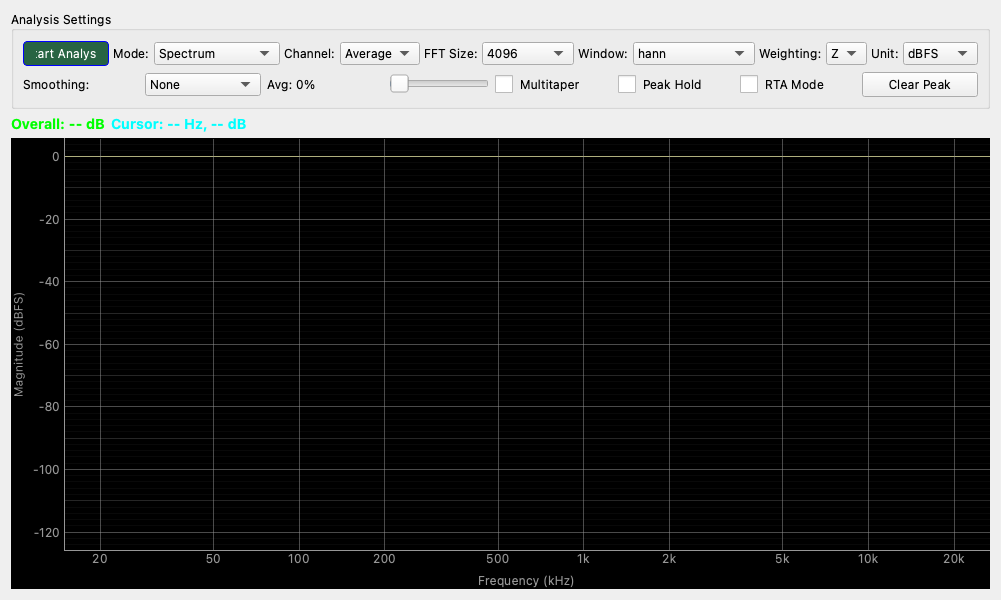
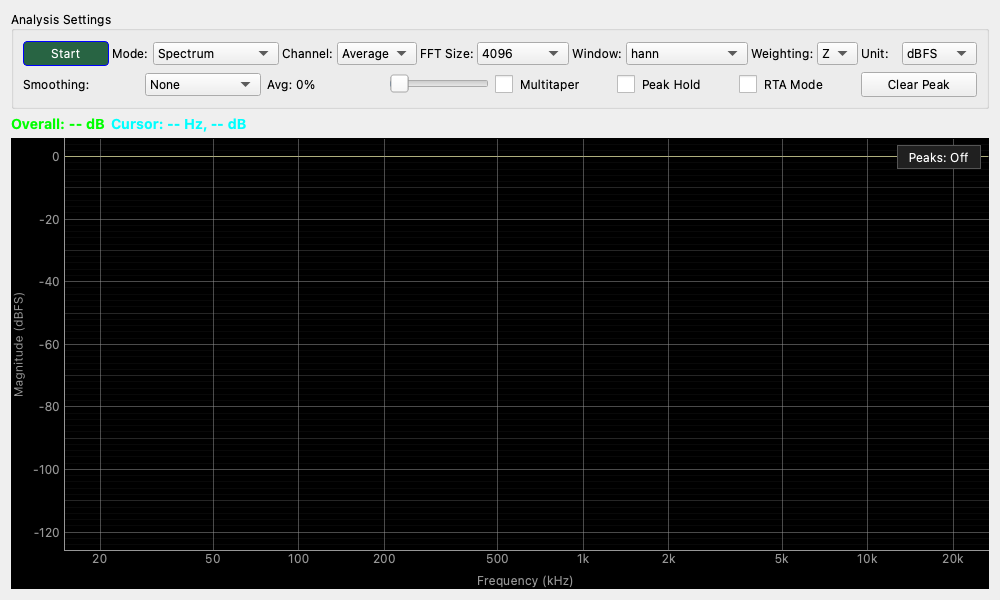
Release v0.9.1 as the final Python edition

diff --git a/misc/extract_changelog.py b/misc/extract_changelog.py
@@ -27,23 +27,16 @@ def extract_changelog(version, changelog_path="CHANGELOG.md"):
         print(f"Error reading {changelog_path}: {e}", file=sys.stderr)
         return None
 
-    # prepare candidate version forms to try (with/without leading 'v')
-    candidates = []
+    # Try both tag-style and plain versions without falling back for normal headers.
     v_stripped = original_version.lstrip("vV")
-    candidates.append(v_stripped)
-    # if user gave version without v, also try with v
-    if not original_version.lower().startswith("v"):
-        candidates.append("v" + v_stripped)
-    # if user gave version with v, also try without
-    if original_version.lower().startswith("v") and v_stripped not in candidates:
-        candidates.append(v_stripped)
+    candidates = list(dict.fromkeys([original_version, v_stripped, "v" + v_stripped]))
 
     # Build a flexible regex that allows:
     #  - optional brackets [ ... ] around version
     #  - optional whitespace between ## and version
-    #  - optional 'v' prefix (we already include candidates, but keep pattern tolerant)
+    #  - versions with or without a 'v' prefix through the candidates above
     #  - consume header line (which may include date) then capture until next "## " or EOF
-    pattern_template = r"^##\s*\[?\s*{ver}\s*\]?.*?\n(.*?)(?=^##\s|\Z)"
+    pattern_template = r"^##[ \t]*\[?[ \t]*{ver}(?![\w.])[ \t]*\]?[^\n]*\n(.*?)(?=^##[ \t]|\Z)"
 
     for cand in candidates:
         pat = pattern_template.format(ver=re.escape(cand))
@@ -54,7 +47,8 @@ def extract_changelog(version, changelog_path="CHANGELOG.md"):
 
     # as a last resort, try a looser search: header that contains the version anywhere on the header line
     loose_pattern = re.compile(
-        r"^##.*" + re.escape(v_stripped) + r".*?\n(.*?)(?=^##\s|\Z)", re.MULTILINE | re.DOTALL | re.IGNORECASE
+        r"^##[^\n]*(?<![\w.])v?" + re.escape(v_stripped) + r"(?![\w.])[^\n]*\n(.*?)(?=^##[ \t]|\Z)",
+        re.MULTILINE | re.DOTALL | re.IGNORECASE,
     )
     loose_match = loose_pattern.search(content)
     if loose_match:

diff --git a/tests/core/test_changelog_extraction.py b/tests/core/test_changelog_extraction.py
@@ -1,0 +1,27 @@
+import pytest
+
+from misc.extract_changelog import extract_changelog
+
+
+@pytest.mark.parametrize("version", ["v0.9.1", "0.9.1"])
+@pytest.mark.parametrize("heading", ["[v0.9.1] - 2026-10-04", "v0.9.1", "[0.9.1]", "0.9.1 - 2026-10-04"])
+def test_release_notes_preserve_final_release_notice(tmp_path, version, heading):
+    notice = "### Final Python Release\n\n* v0.9.1 is the final Python release.\n\n### Added\n\n* New layout."
+    changelog = tmp_path / "CHANGELOG.md"
+    changelog.write_text(f"# Changelog\n\n## {heading}\n\n{notice}\n\n## [v0.9.0]\n\n* Previous release.\n")
+
+    assert extract_changelog(version, changelog) == notice
+
+
+def test_release_notes_fallback_only_matches_heading_lines(tmp_path):
+    changelog = tmp_path / "CHANGELOG.md"
+    changelog.write_text("## Release v0.9.1 (final)\n\n* v0.9.1 is the final Python release.\n\n## v0.9.0\n\n* Old.\n")
+
+    assert extract_changelog("v0.9.1", changelog) == "* v0.9.1 is the final Python release."
+
+
+def test_release_notes_do_not_match_longer_version(tmp_path):
+    changelog = tmp_path / "CHANGELOG.md"
+    changelog.write_text("## [v0.9.10]\n\n* Different release.\n")
+
+    assert extract_changelog("v0.9.1", changelog) is None

diff --git a/src/core/version.py b/src/core/version.py
@@ -1,1 +1,1 @@
-__version__ = "0.9.0"
+__version__ = "0.9.1"

diff --git a/CHANGELOG.md b/CHANGELOG.md
@@ -1,5 +1,46 @@
 # Changelog
 
+## [v0.9.1] - 2026-10-04
+
+### Final Python Release
+
+* v0.9.1 is the final release of the Python/PyQt6 edition of MeasureLab. Development of this edition ends with this release.
+
+### Added
+
+* **Measurement Console**:
+    * Added a five-pane layout with two instruments above and three below.
+* **FFT Optimization**:
+    * Added optimization coverage indicators for standard, medium, and huge FFT sizes, including measured and estimated plans for both processing precisions.
+
+### Changed
+
+* **Startup and Navigation**:
+    * Displayed the splash screen earlier, prepared common FFT plans and up to four recent or basic modules during startup, and deferred the remaining pages until needed.
+    * Standardized the initial window size and improved lazy page loading and status refresh responsiveness.
+* **GUI Theme**:
+    * Refined measurement controls, menus, group boxes, and window styling across light, dark, and system themes.
+* **Documentation and Maintenance**:
+    * Documented the final Python release, refreshed affected widget screenshots, and strengthened lint, typing, and GUI regression checks.
+
+### Fixed
+
+* **GUI Shutdown**:
+    * Stopped module timers and background work during widget cleanup and canceled deferred page loading when the main window closes.
+* **Settings**:
+    * Refreshed calibration values when returning to Settings and used active double-precision FFT plans during optimization.
+* **Spectrum Analyzer**:
+    * Kept translated controls within the widget size limit while preserving accessible start/stop descriptions.
+* **Goniometer**:
+    * Kept the plot background and direction labels consistent across themes.
+* **Release Notes**:
+    * Preserved the complete changelog section when the version number is repeated in its body.
+
+### Removed
+
+* **Plot Comparer**:
+    * Removed the Plot Comparer module, comparison actions, and saved comparison-session state while retaining shared export utilities.
+
 ## [v0.9.0] - 2026-09-23
 
 ### Added

diff --git a/docs/widgets/settings.md b/docs/widgets/settings.md
@@ -26,7 +26,9 @@ Settings（設定）ウィジェットでは、アプリケーション全体の
 
 FFT（高速フーリエ変換）の処理速度を向上させるための最適化を行います。
 
-* **Regenerate Optimization**: 最適化処理を実行します。実行には数秒〜数分かかる場合があります。
+起動時に通常サイズの FFT プランを準備します。標準・中規模・巨大サイズの状態表示では、32 bit・64 bit の両精度について、実測最適化（MEASURE）と推定（ESTIMATE）の適用状況を確認できます。詳細な件数は状態表示のツールチップに表示されます。過去の最適化データで適用状況が不明な場合は、最適化を再実行してください。
+
+* **Optimize FFT**: 最適化処理を実行します。実行には数秒〜数分かかる場合があります。
 * **Include Huge Sizes**: チェックを入れると、非常に大きなデータサイズ（最大4Mサンプル）の最適化も行います。処理に時間がかかりますが、巨大なFFTを行う場合に有利です。
 
 ## Audio (オーディオ設定)

diff --git a/docs/widgets/settings.en.md b/docs/widgets/settings.en.md
@@ -26,7 +26,9 @@ Specifies the destination folder for saving screenshots taken in each measuremen
 
 Performs optimization to improve the processing speed of FFT (Fast Fourier Transform).
 
-* **Regenerate Optimization**: Executes the optimization process. Execution may take several seconds to several minutes.
+Common FFT plans are prepared at startup. The standard, medium, and huge size indicators report measured (MEASURE) and estimated (ESTIMATE) plan coverage for both 32-bit and 64-bit processing. Hover over a status value to see the plan counts. Regenerate optimization if older optimization data has unknown coverage.
+
+* **Optimize FFT**: Executes the optimization process. Execution may take several seconds to several minutes.
 * **Include Huge Sizes**: If checked, it also performs optimization for very large data sizes (up to 4M samples). It takes time to process, but it is advantageous when performing huge FFTs.
 
 ## Audio

diff --git a/guide/CURRENT_DIRECTION.md b/guide/CURRENT_DIRECTION.md
@@ -1,5 +1,7 @@
 今までの結果を合わせた方向性：
 
+**2026-10-04: Python 版の開発終了。** v0.9.1 を Python/PyQt6 版の最終リリースとします。以下の分析・履歴は、この決定以前の開発状況を記録したものです。
+
 アプリケーションのUI/UX向上（計測UIテーマの刷新、起動速度の最適化）およびアーキテクチャの評価・移行計画（Rust/QMLの導入検討）が進められています。また、機能の整理（Plot Comparerの削除とエクスポートユーティリティの保持）や、提案機能（PROPOSED_FEATURES.md）の更新が行われ、プロジェクトの洗練と将来のビジョンの具体化が図られています。
 
 今週の分析結果：

diff --git a/docs/widgets/measurement_console.en.md b/docs/widgets/measurement_console.en.md
@@ -43,6 +43,7 @@ the order. Use **Layout → Reapply Layout** to restore proportions without chan
 | **2 x 2 Grid** | Two columns and two rows. |
 | **2 Columns x 3 Rows** | Six panes arranged vertically. |
 | **3 Columns x 2 Rows** | Six panes arranged horizontally. |
+| **2 Above + 3 Below** | Two panes above and three below, with the upper row using two thirds of the height. |
 | **Main + 3 Right** | A large main pane using two thirds of the width, with three stacked panes on the right. |
 | **Main + 3 Below** | A large main pane using two thirds of the height, with three panes below. |
 

diff --git a/docs/widgets/measurement_console.md b/docs/widgets/measurement_console.md
@@ -40,6 +40,7 @@
 | **2 x 2 グリッド** | 2列・2行の4区画。 |
 | **2列 × 3行** | 縦方向に並ぶ6区画。 |
 | **3列 × 2行** | 横方向に並ぶ6区画。 |
+| **上2・下3分割** | 上段に2区画、下段に3区画。上段は高さの約3分の2を使用。 |
 | **メイン＋右に3分割** | 幅の約3分の2をメインに使い、右側に3区画を縦に配置。 |
 | **メイン＋下に3分割** | 高さの約3分の2をメインに使い、下側に3区画を横に配置。 |
 

diff --git a/README.md b/README.md
@@ -20,6 +20,8 @@ A collection of DIY audio measurement and analysis tools, grown organically as n
 
 This project aims to reach more people as an alternative for audio enthusiasts who cannot afford expensive measurement equipment.
 
+**Final Python release:** [v0.9.1](https://github.com/youtube-at-vach/MeasureLab/releases/tag/v0.9.1) is the final release of the Python/PyQt6 edition. Development of this edition ends with this release.
+
 ## ✨ Features
 
 ### 🛠 Widgets / Measurement Modules

diff --git a/README.ja.md b/README.ja.md
@@ -20,6 +20,8 @@
 
 本プロジェクトは、高価な測定機器を入手できないオーディオ研究家に向けた代替手段として、より多くの人に届くことを目指しています。
 
+**Python 版の最終リリース:** [v0.9.1](https://github.com/youtube-at-vach/MeasureLab/releases/tag/v0.9.1) をもって、Python/PyQt6 版の開発を終了します。
+
 ## ✨ 主な機能
 
 ### 🛠 ウィジット / 測定モジュール

diff --git a/docs/index.md b/docs/index.md
@@ -1,5 +1,7 @@
 # 測定ツール マニュアル
 
+**Python 版の最終リリース:** [v0.9.1](https://github.com/youtube-at-vach/MeasureLab/releases/tag/v0.9.1) をもって、Python/PyQt6 版の開発を終了します。このマニュアルは Python 版の操作方法を説明しています。
+
 ![Welcome](assets/welcome.png)
 
 ## 概要
